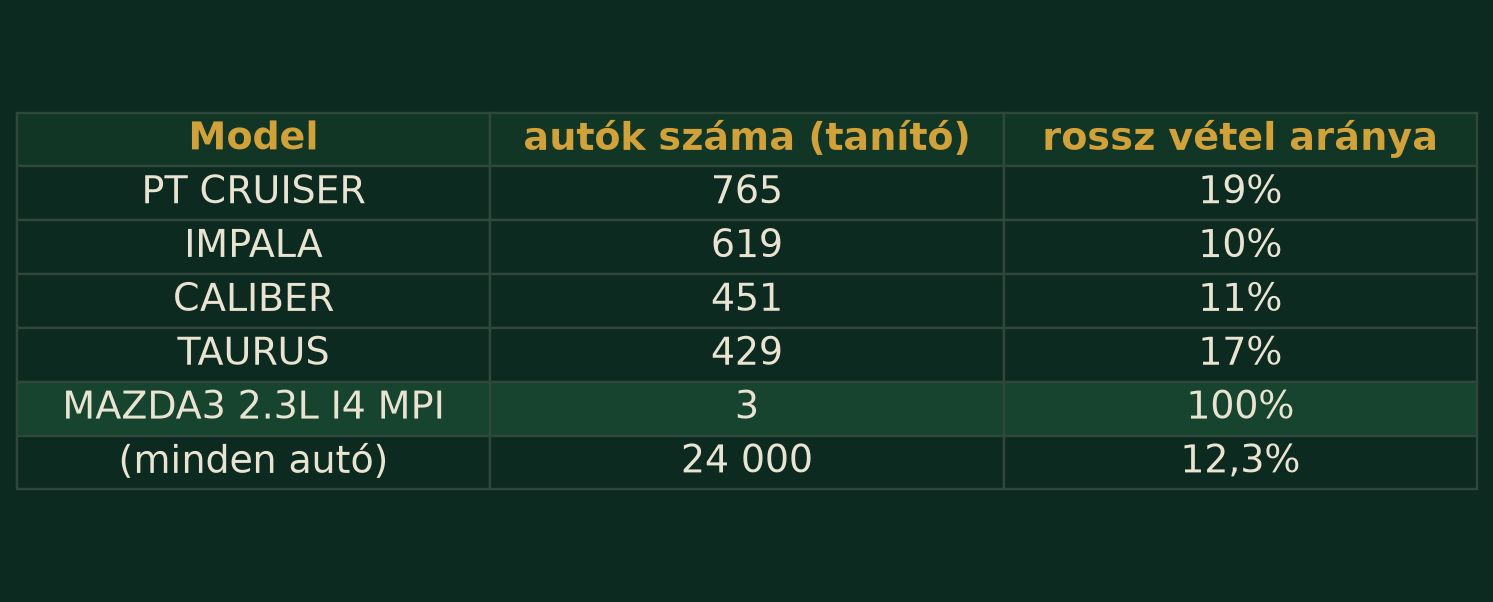
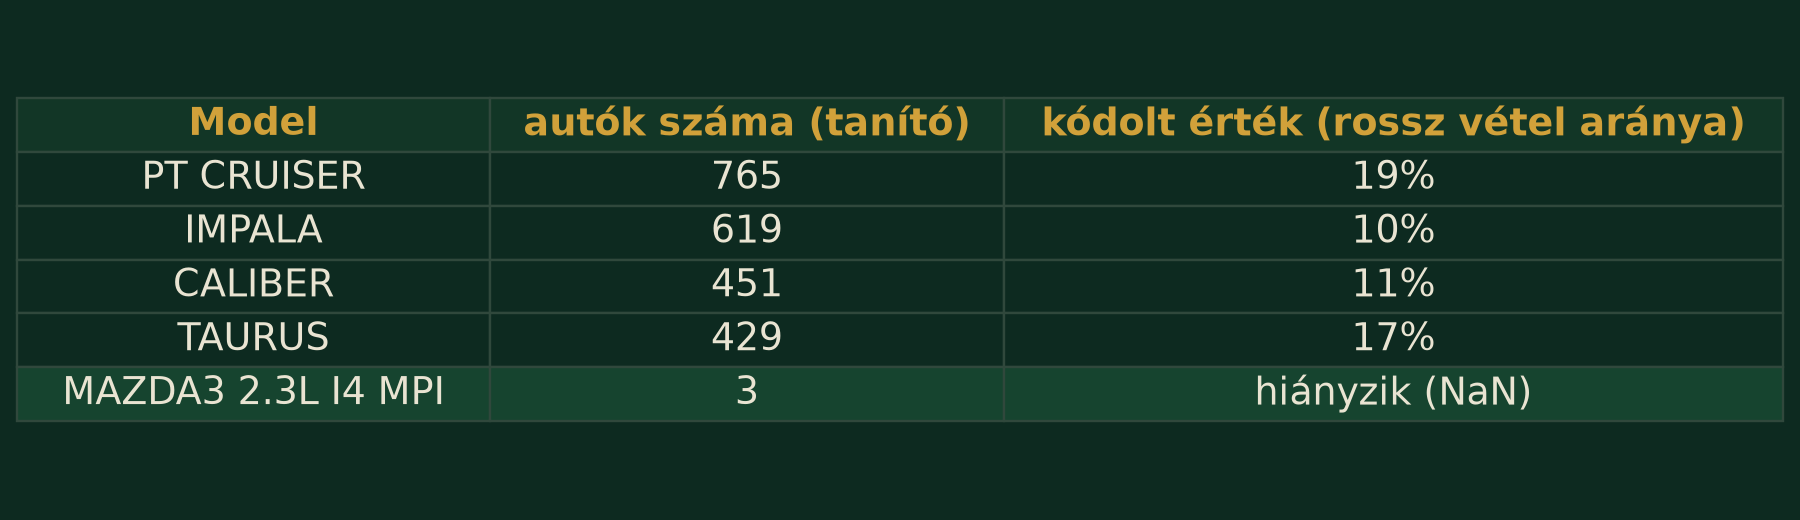
Lesson 4 slides: review fixes (52 slides)
- Drop 'Mennyit tudunk valojaban?' (bootstrap) slide.
- Raw-rows table now shows both MANUAL and Manual and zero prices in both price columns.
- Target-mean encoding: values with < 30 cars (and unseen values) are simply missing, no smoothing.
- WheelType and WheelTypeID are the same information (1:1 code); said so on the cleaning and importance slides.
- 'vasarlaskori' price estimate is the used-market value at purchase, not the new-car price (median falls from
  8 176 USD at age 1 to 2 629 USD at age 9; inferred, the dataset does not define it).
- Threshold slide reframed as a business decision; no 'useful threshold' wording.

Checks: slide_check 0 issues, no image/text overlap, 6 questions. Notebook not re-run.

diff --git a/lessons/04-klasszifikacio/slides-data.js b/lessons/04-klasszifikacio/slides-data.js
@@ -50,7 +50,8 @@ window.SLIDES = [
   S({ eyebrow: "Az adat", title: "Kaggle: Don't Get Kicked!",
       blocks: [LIST("<strong>72 983</strong> vásárlás, <strong>33</strong> oszlop (Kaggle, Carvana; OpenML 41162, CC0). Az órán egy <strong>30 000 soros, réteges mintát</strong> használunk: 24 000 tanító + 6 000 teszt sor",
                     "<strong>12,3%</strong> rossz vétel: a „minden vétel jó” modell pontossága 87,7%",
-                    "Oszlopok: az autó adatai (márka, modell, kor, km), a vételár, aukció, és <strong>piaci árbecslések</strong>: aukciós vagy kiskereskedelmi ár, átlagos vagy „tiszta” állapotú autóra, <strong>kétszer</strong>: a vásárláskor és ma")] }),
+                    "Oszlopok: az autó adatai (márka, modell, kor, km), a vételár, aukció, és <strong>piaci árbecslések</strong> (aukciós/kiskereskedelmi, átlagos/„tiszta” állapotú autóra) <strong>kétszer</strong>: a vásárláskor és ma",
+                    "A becslés <strong>nem az új autó ára</strong>: a vásárláskori medián becslés 1 éves autóra 8 176, 9 évesre 2 629 USD (teljes adat; az adatsor nem definiálja, az értékekből következtetünk)")] }),
   S({ eyebrow: "EDA", title: "Kor szerint", img: "eda_kor.png", caption: "a 30 000 soros mintán; szaggatott vonal: átlag (12,3%)",
       blocks: ["Az autó korával nő a rossz vétel aránya: 1 évesnél <strong>3,8%</strong>, 9 évesnél <strong>29%</strong>."] }),
   S({ eyebrow: "EDA", title: "Vételár szerint", img: "eda_ar.png", caption: "fent: hány autó van a sávban; lent: közülük hány rossz vétel (100-nál kevesebb autós sávban nem rajzoltunk arányt)",
@@ -63,18 +64,18 @@ window.SLIDES = [
                "Ezt a vásárláskori adatrögzítés ismeretében kell eldönteni. A demóban jellemzőként használjuk."] }),
 
   // ---------------- Tisztítás ----------------
-  S({ eyebrow: "Tisztítás", title: "Ilyen a nyers adat", img: "tbl_raw.png", caption: "négy valódi sor a mintából, a problémás cellák kiemelve",
-      blocks: ["Unix-idő a dátum helyén, <strong>0 dollár</strong> ár, üres keréktípus, „Manual” és „MANUAL”, számnak látszó irányítószám."] }),
+  S({ eyebrow: "Tisztítás", title: "Ilyen a nyers adat", img: "tbl_raw.png", caption: "hat valódi sor a mintából, a problémás cellák kiemelve",
+      blocks: ["Unix-idő a dátum helyén, <strong>0 dollár</strong> becslés (vásárláskor és ma is), „MANUAL” és „Manual”, üres keréktípus, számnak látszó irányítószám."] }),
   S({ eyebrow: "Tisztítás", title: "Mit csinálunk velük?",
-      blocks: [LIST("<strong>0 dollár ár</strong> → hiányzó érték (NaN): a mintában 348 vételkori és 209 mai árnál", "<strong>PurchDate</strong> (unix-idő) → hónap és a hét napja", "<strong>VNZIP1, BYRNO, WheelTypeID</strong>: számnak látszó kódok → kategória (nincs értelme átlagolni)", "<strong>Transmission</strong>: „Manual” → „MANUAL”", "<strong>Hiányzó értékek:</strong> lineáris modellnek medián + „hiányzott” jelző oszlop; fának a NaN marad. A hiányzást nem tüntetjük el nyomtalanul")] }),
+      blocks: [LIST("<strong>0 dollár ár</strong> → hiányzó érték (NaN): a mintában 348 vásárláskori és 209 mai becslésnél", "<strong>PurchDate</strong> (unix-idő) → hónap és a hét napja", "<strong>VNZIP1, BYRNO, WheelTypeID</strong>: számnak látszó kódok → kategória (nincs értelme átlagolni). A <code>WheelTypeID</code> a <code>WheelType</code> kódja, vagyis <strong>ugyanaz az információ</strong>", "<strong>Transmission</strong>: „Manual” → „MANUAL”", "<strong>Hiányzó értékek:</strong> lineáris modellnek medián + „hiányzott” jelző oszlop; fának a NaN marad. A hiányzást nem tüntetjük el nyomtalanul")] }),
   S({ eyebrow: "Kódolás", title: "One-hot kódolás", img: "tbl_onehot.png", caption: "valódi sorok a tanító halmazból; a hiányzó érték is kap egy oszlopot",
       blocks: ["One-hot: minden értékhez külön 0/1 oszlop; a „hiányzik” is kap egyet. Kevés érték esetén használjuk."] }),
-  S({ eyebrow: "Kódolás", title: "Sok érték: célérték-átlag", img: "tbl_celatlag.png", caption: "csak a 24 000 tanító sorból számolva",
-      blocks: ["A <code>Model</code>nek 876 értéke van a tanítóban: one-hot-tal 876 oszlop. Helyette: minden értékhez a <strong>csoport rossz-vétel-aránya</strong>."] }),
+  S({ eyebrow: "Kódolás", title: "Sok érték: célérték-átlag", img: "tbl_celatlag.png", caption: "csak a 24 000 tanító sorból számolva; 30-nál kevesebb autós érték: hiányzik",
+      blocks: ["A <code>Model</code>nek 876 értéke van: one-hot-tal 876 oszlop. Helyette minden értékhez a <strong>csoport rossz-vétel-aránya</strong>."] }),
   S({ eyebrow: "Kódolás", title: "A célérték-átlag szabályai",
       blocks: [LIST("<strong>Csak a tanító adatból számoljuk</strong>: a teszt (és a validációs rész) célértékéből számolva szivárgás lenne, hiszen a jellemzőt a megoldásból állítanánk elő. Keresztvalidációnál minden foldon a tanító résznek megfelelően",
-                    "<strong>Ritka értékeknél simítunk:</strong> a 3 autós modell 100%-a megbízhatatlan, ezért a csoport átlagát a globális átlag (12,3%) felé húzzuk, annál erősebben, minél kevesebb az autó",
-                    "Új, a tanítóban nem látott értékre: a globális átlag")] }),
+                    "<strong>Egyszerűen:</strong> a 30-nál kevesebb autós érték (és a tanítóban nem látott új érték) <strong>hiányzónak</strong> számít, nincs simítás. A 3 autós modell 100%-a úgysem megbízható. A 876 értékből 704 ilyen, de a tanító autók csak 17%-át fedik",
+                    "A hiányzót a modell kezeli: a fa NaN-ként, a lineáris modell mediánnal és „hiányzott” jelzővel")] }),
   S({ eyebrow: "A split", title: "Előbb szétválasztunk",
       blocks: [LIST("<strong>24 000</strong> tanító és <strong>6 000</strong> teszt sor, rétegzetten (mindkettőben 12,3% rossz vétel)", "Ami az adatból <strong>tanul</strong> (imputer, scaler, encoder, célérték-átlag), azt egy <strong>pipeline</strong>-ba tesszük, és csak a tanító részen illesztjük, különben a teszt információja beszivárog (<strong>szivárgás</strong>)", "A teszthalmaz <strong>zárolva</strong> van a végéig: egyszer használjuk, hogy becsüljük a modell teljesítményét új autókon")] }),
 
@@ -122,8 +123,8 @@ window.SLIDES = [
   S({ eyebrow: "Modell-létra", title: "Mit olvasunk ki?",
       blocks: [LIST("A <strong>korlát nélküli fa</strong> memorizál: PR-AUC 0,19, alig jobb a véletlennél (0,12)", "A <strong>logisztikus regresszió</strong> erős alap (0,45); a Random Forest 0,46, az XGBoost 0,48: <strong>mérsékelt</strong> nyertes", "A lineáris modell one-hot bemenetet kap (643 oszlop), a fák kevesebbet (33 oszlop)"),
                T("Tanulság", "Nem egy nagyobb modell a következő lépés, hanem a hibák megértése.")] }),
-  S({ eyebrow: "Modell-létra", title: "Mire figyel az XGBoost?", img: "xgb_fontossag.png", caption: "a tíz legfontosabb oszlop (gain alapú fontosság)",
-      blocks: ["A <code>WheelType</code> és <code>WheelTypeID</code> (ugyanott hiányzik mindkettő), utána a kor és az aukció."] }),
+  S({ eyebrow: "Modell-létra", title: "Mire figyel az XGBoost?", img: "xgb_fontossag.png", caption: "a tíz legfontosabb oszlop (gain alapú fontosság). A demóban a WheelType és a WheelTypeID is benne maradt; élesben az egyiket eldobnánk",
+      blocks: ["A <code>WheelType</code> (név) és a <code>WheelTypeID</code> (kód) <strong>ugyanaz az információ</strong>, ezért megoszlik a fontosságuk; utána a kor és az aukció."] }),
 
   // ---------------- Visszacsatolási kör ----------------
   S({ eyebrow: "Visszacsatolás", title: "Hibák → hipotézis → újramérés",
@@ -134,7 +135,7 @@ window.SLIDES = [
       blocks: ["Recall <strong>25%</strong> (749 / 2 952), precision <strong>83%</strong>: négy rossz vételből egyet talál meg."] }),
   S({ eyebrow: "Visszacsatolás", title: "Nézzünk tévedéseket", img: "tbl_tevedesek.png", caption: "felül: a legbiztosabban kihagyott rossz vételek; alul: a legbiztosabb álriasztások",
       blocks: ["A kihagyott rossz vételek friss, átlagos autók, 0–1% jósolt eséllyel: a nyers oszlopok nem árulják el, miért rosszak."] }),
-  S({ eyebrow: "Visszacsatolás", title: "Hipotézis: az értékvesztés", img: "loop_arvaltozas.png", caption: "a mai és a vételkori aukciós átlagár hányadosa szerint tíz sávra bontva; a sávok létszáma nem egyenlő, mert sok autónál pontosan 1,00 a hányados",
+  S({ eyebrow: "Visszacsatolás", title: "Hipotézis: az értékvesztés", img: "loop_arvaltozas.png", caption: "a mai és a vásárláskori becsült aukciós átlagár hányadosa szerint tíz sávra bontva (az ábrán „vételkori”: ugyanaz); a sávok létszáma nem egyenlő, mert sok autónál pontosan 1,00 a hányados",
       blocks: ["Egy rossz vétel értékvesztés. Ahol az ár nem mozdult (≈ 1,00), a modell <strong>alulbecsül</strong>: 0,17 a valódi 0,19 helyett."] }),
   S({ eyebrow: "Visszacsatolás", title: "Fordított U alak",
       blocks: ["A rossz vétel aránya az árváltozás szerint <strong>fordított U</strong>: ~20% ott, ahol az ár alig mozdult (1,00 körül), és ~10% mindkét szélen. Egy egyenes csak lejtő lehet, ezt nem követi.",
@@ -142,15 +143,15 @@ window.SLIDES = [
                T("Őszintén", "Azt, <strong>miért</strong> magas a kockázat ott, ahol az ár nem mozdult, nem tudjuk (lehet, hogy az árbecslés nem frissült). A mintázat attól még használható.")] }),
   S({ eyebrow: "Feature engineering", title: "Amit a fa nem számol ki",
       blocks: ["A fa egy oszlopra tesz fel kérdést: két oszlop <strong>hányadosát vagy különbségét</strong> nekünk kell kiszámolni. Ez a <strong>feature engineering</strong>.",
-               LIST("<strong>árarány</strong>: mai ár / vételkori ár, négy féle árra (aukciós/kiskereskedelmi, átlagos/tiszta)", "<strong>árkülönbség</strong>: mai − vételkori aukciós átlagár", "fizetett ár / mai ár; kiskereskedelmi / aukciós ár; tiszta / átlagos ár")] }),
+               LIST("<strong>árarány</strong>: mai becsült ár / vásárláskori becsült ár, négy féle árra (aukciós/kiskereskedelmi, átlagos/tiszta)", "<strong>árkülönbség</strong>: mai − vásárláskori aukciós átlagbecslés", "fizetett ár / mai ár; kiskereskedelmi / aukciós ár; tiszta / átlagos ár")] }),
   qa({ eyebrow: "Feature engineering", title: "Javít az új jellemző?", img: "tbl_jellemzok.png", caption: "3-fold × 2 ismételt CV; a különbség páros: ugyanazok a foldok",
       ask: "Javítják az új jellemzők az XGBoostot és a logisztikus regressziót is?",
       answer: ["Csak az XGBoostot: <strong>+0,018 ± 0,006</strong> (páros); a logisztikus regresszió +0,001, azaz semmi."] }),
   S({ eyebrow: "Feature engineering", title: "Miért csak a fának segít?",
       blocks: ["A hatás fordított U alakú, nem monoton: az egyenes csak lejtő lehet. A fa <strong>hajlik</strong>, ha megkapja a jelet.",
                T("Tanulság", "A feature engineering a modell és az adat <strong>párosításáról</strong> szól: a fának az arányt kell kiszámolnunk, a lineáris modellnek a kanyart (pl. sávokat).")] }),
-  S({ eyebrow: "Visszacsatolás", title: "A küszöb választása", img: "loop_kuszob_gorbek.png", caption: "XGBoost, out-of-fold, tanító halmaz",
-      blocks: ["A pontosság 0,56-nál a legjobb, a <strong>hasznos</strong> küszöb 0,12: ott a pontosság esik (0,90 → 0,75), a recall nő (0,25 → 0,62)."] }),
+  S({ eyebrow: "Visszacsatolás", title: "A küszöb üzleti döntés", img: "loop_kuszob_gorbek.png", caption: "XGBoost, out-of-fold, tanító halmaz",
+      blocks: ["0,56-nál a pontosság a legjobb (recall 0,25); 0,12-nél a recall 0,62, de a pontosság 0,75. A választás <strong>üzleti döntés</strong>."] }),
   S({ eyebrow: "Visszacsatolás", title: "A javítás együtt", img: "tbl_javitas.png", caption: "XGBoost, out-of-fold, tanító halmaz",
       blocks: ["Az új jellemzők és a 0,12-es küszöb együtt: recall <strong>0,62</strong>, kiegyensúlyozott pontosság <strong>0,70</strong> (a pontosság 0,75)."] }),
   S({ eyebrow: "Visszacsatolás", title: "Mit tanultunk a körből?",
@@ -169,7 +170,7 @@ window.SLIDES = [
 
   // ---------------- Záró teszt ----------------
   S({ eyebrow: "Záró teszt", title: "Előre rögzített szabály",
-      blocks: [LIST("Jelöltek: logisztikus regresszió (CV: 0,450), XGBoost alap (0,499), XGBoost hangolt (0,493). Nyer a <strong>legjobb CV PR-AUC</strong>: az alap XGBoost", "Küszöb: a végső modell out-of-fold jóslataiból, kiegyensúlyozott pontosságra → <strong>0,12</strong>", "Illesztés az egész tanító halmazon, aztán a teszthalmaz <strong>egyszer</strong>")] }),
+      blocks: [LIST("Jelöltek: logisztikus regresszió (CV: 0,450), XGBoost alap (0,499), XGBoost hangolt (0,493). Nyer a <strong>legjobb CV PR-AUC</strong>: az alap XGBoost", "Küszöb: üzleti költség híján a demóban a kiegyensúlyozott pontosságot maximalizáló érték a végső modell out-of-fold jóslataiból → <strong>0,12</strong>", "Illesztés az egész tanító halmazon, aztán a teszthalmaz <strong>egyszer</strong>")] }),
   S({ eyebrow: "Záró teszt", title: "A teszthalmazon", img: "tbl_vegso.png", caption: "6 000 autó, ebből 738 rossz vétel",
       blocks: ["Küszöb 0,5 → 0,12: recall 0,22 → <strong>0,62</strong>, kiegyens. pontosság 0,61 → <strong>0,69</strong>, de precision 0,87 → 0,27."] }),
   S({ eyebrow: "Záró teszt", title: "A teszt mátrixa", img: "cm_vegso.png", caption: "alap XGBoost, küszöb 0,12, a teszthalmazon",
@@ -177,12 +178,8 @@ window.SLIDES = [
   S({ eyebrow: "Záró teszt", title: "Megéri?",
       blocks: ["1 212 fölösleges riasztás egy 454 megfogott rossz vételért: attól függ, <strong>mennyibe kerül egy plusz ellenőrzés</strong>, és mennyit ér egy elkerült kick. Ezt az üzlet tudja, nem a modell.",
                "A modell dolga a választási lehetőségeket adni (a PR-görbe pontjait); a küszöböt az üzleti költség dönti el."] }),
-  S({ eyebrow: "Záró teszt", title: "Mennyit tudunk valójában?",
-      blocks: ["<strong>Bootstrap konfidencia-intervallum:</strong> a 6 000 tesztsort 1 000-szer újrahúzzuk visszatevéssel, és mindegyiken kiszámoljuk a PR-AUC-t; a középső 95% az intervallum. Az XGBoost PR-AUC-ja a teszten <strong>0,472</strong> [0,439; 0,506], a logisztikus regresszióé 0,406.",
-               "<strong>Páros bootstrap:</strong> a különbség <strong>+0,065</strong> [+0,046; +0,085], nem tartalmazza a nullát: valószínűleg jobb. A CV-ben a különbség +0,05 körüli volt: az irány egyezik, a pontos mérték egy mintán nem ismert.",
-               T("Hogyan ellenőriznéd?", "A teljes split–hangolás–kiértékelés ismétlésével több seeddel és a teljes adattal. Ezt nem futtattuk le.")] }),
   S({ eyebrow: "Összefoglaló", title: "Ellenőrzőlista",
-      blocks: [LIST("Először szétválasztunk; ami tanul, az pipeline-ban él (a célérték-átlag is)", "Időbeli adatnál a múltból jósolunk a jövőre", "Alapmodell és dummy mindig; ugyanazok a foldok minden modellnek", "Mutatók előre: kiegyensúlyozott pontosság, PR-AUC, konfúziós mátrix, a legkockázatosabb X%", "A hiányzás lehet jel, de lehet szivárgás is", "Feature engineering: a modellnek azt számoljuk ki, amit magától nem tud", "Ha a hangolt modell nem jobb, az egyszerűbbet tartjuk meg; a teszthalmaz egyszer, konfidencia-intervallummal")] }),
+      blocks: [LIST("Először szétválasztunk; ami tanul, az pipeline-ban él (a célérték-átlag is)", "Időbeli adatnál a múltból jósolunk a jövőre", "Alapmodell és dummy mindig; ugyanazok a foldok minden modellnek", "Mutatók előre: kiegyensúlyozott pontosság, PR-AUC, konfúziós mátrix, a legkockázatosabb X%", "A hiányzás lehet jel, de lehet szivárgás is", "Feature engineering: a modellnek azt számoljuk ki, amit magától nem tud", "Ha a hangolt modell nem jobb, az egyszerűbbet tartjuk meg; a teszthalmaz egyszer")] }),
   S({ eyebrow: "Házi", title: "Építs saját klasszifikátort",
       blocks: ["Válassz <strong>egy</strong> adatsort (lehetőleg mindenki mást), és építs rá bináris klasszifikátort egyetlen notebookban: split előbb, dummy és alapmodell, legalább három modell, a mai mutatók, <strong>egy dokumentált visszacsatolási kör új jellemzővel</strong>, a teszthalmaz egyszer.",
                "Pontozás: az <strong>indoklás</strong> számít, nem a pontszám; a sikertelen próbálkozás is érték, ha őszintén leírod. Részletek, adatsorok: <code>homework.md</code>."] }),

diff --git a/lessons/04-klasszifikacio/build_assets.py b/lessons/04-klasszifikacio/build_assets.py
@@ -88,17 +88,20 @@ print("ár-sávok (ezer USD): autók száma és rossz vétel aránya")
 print(g.assign(mean=lambda d: d["mean"].round(3)).T.to_string())
 
 # ---------------------------------------------------------------- 2. nyers sorok: a problémás értékekkel
-cols = ["PurchDate", "VehicleAge", "Make", "Transmission", "WheelType", "VNZIP1", "MMRAcquisitionAuctionAveragePrice", "VehBCost"]
-r_ok = raw[(raw.WheelType.notna()) & (raw.MMRAcquisitionAuctionAveragePrice > 0) & (raw.Transmission == "AUTO")].iloc[0]
-r_zero = raw[raw.MMRAcquisitionAuctionAveragePrice == 0].iloc[0]
-r_wheel = raw[raw.WheelType.isna() & (raw.MMRAcquisitionAuctionAveragePrice > 0)].iloc[0]
-r_man = raw[raw.Transmission == "Manual"].iloc[0]
-rows = pd.DataFrame([r_ok, r_zero, r_wheel, r_man])[cols]
+cols = ["PurchDate", "Make", "Transmission", "WheelType", "VNZIP1", "MMRAcquisitionAuctionAveragePrice", "MMRCurrentAuctionAveragePrice"]
+ok = (raw.MMRAcquisitionAuctionAveragePrice > 0) & (raw.MMRCurrentAuctionAveragePrice > 0)
+r_ok = raw[ok & raw.WheelType.notna() & (raw.Transmission == "AUTO")].iloc[0]
+r_zero_acq = raw[raw.MMRAcquisitionAuctionAveragePrice == 0].iloc[0]                                   # 0 dollár a vásárláskori becslés
+r_zero_cur = raw[(raw.MMRCurrentAuctionAveragePrice == 0) & (raw.MMRAcquisitionAuctionAveragePrice > 0)].iloc[0]   # 0 dollár a mai becslés
+r_manual_up = raw[raw.Transmission == "MANUAL"].iloc[0]                                                # a helyes írásmód
+r_manual_bad = raw[raw.Transmission == "Manual"].iloc[0]                                               # a másik írásmód
+r_wheel = raw[raw.WheelType.isna() & ok].iloc[0]
+rows = pd.DataFrame([r_ok, r_zero_acq, r_zero_cur, r_manual_up, r_manual_bad, r_wheel])[cols]
 show = rows.copy()
-show.columns = ["PurchDate", "kor", "Make", "Transmission", "WheelType", "VNZIP1", "MMR vételkori átlagár", "VehBCost"]
+show.columns = ["PurchDate", "Make", "Transmission", "WheelType", "VNZIP1", "piaci becslés vásárláskor", "piaci becslés ma"]
 for c in show.columns:
     show[c] = show[c].map(lambda v: "NaN" if pd.isna(v) else (f"{v:.0f}" if isinstance(v, (int, float, np.integer, np.floating)) else str(v)))
-hl = {(1, 6), (0, 0), (2, 4), (3, 3), (0, 5)}               # 0 dollár, unix-idő, hiányzó keréktípus, „Manual”, irányítószám
+hl = {(0, 0), (0, 4), (1, 5), (2, 6), (3, 2), (4, 2), (5, 3)}   # unix-idő, irányítószám, 0 dollár (kétszer), MANUAL/Manual, hiányzó keréktípus
 table_png(show, "tbl_raw", hl_cells=hl, fs=15)
 print("nyers sorok:\n", show.to_string())
 
@@ -107,14 +110,16 @@ X, y = raw.drop(columns="IsBadBuy"), raw.IsBadBuy.astype(int)
 X_train, X_test, y_train, y_test = train_test_split(X, y, test_size=.2, stratify=y, random_state=42)
 gm = float(y_train.mean())
 stat = pd.DataFrame({"y": y_train.values, "m": X_train.Model.values}).groupby("m").y.agg(["size", "mean"])
+MIN_N = 30                                              # KISS: a 30-nál ritkább érték hiányzónak számít (nincs simítás)
 top = stat.sort_values("size", ascending=False).head(4)
 rare = stat[(stat["size"].between(3, 5))].sort_values("mean", ascending=False).head(1)
 ex = pd.concat([top, rare])
-tab = pd.DataFrame({"Model": [str(i)[:26] for i in ex.index], "autók száma (tanító)": [thou(v) for v in ex["size"]],
-                    "rossz vétel aránya": [f"{v:.0%}".replace(".", ",") for v in ex["mean"]]})
-tab = pd.concat([tab, pd.DataFrame({"Model": ["(minden autó)"], "autók száma (tanító)": [thou(len(y_train))], "rossz vétel aránya": [f"{gm:.1%}".replace(".", ",")]})])
+enc = ["hiányzik (NaN)" if n < MIN_N else f"{m:.0%}".replace(".", ",") for n, m in zip(ex["size"], ex["mean"])]
+tab = pd.DataFrame({"Model": [str(i)[:26] for i in ex.index], "autók száma (tanító)": [thou(v) for v in ex["size"]], "kódolt érték (rossz vétel aránya)": enc})
 table_png(tab.reset_index(drop=True), "tbl_celatlag", hl_rows=[4], fs=16)
-print("célérték-átlag példa:\n", tab.to_string(), "\nkülönböző Model a tanítóban:", int(stat.shape[0]))
+n_rare = int((stat["size"] < MIN_N).sum())
+print("célérték-átlag példa:\n", tab.to_string(), "\nkülönböző Model a tanítóban:", int(stat.shape[0]),
+      f"| ebből {n_rare} értéknél van {MIN_N}-nál kevesebb autó (a tanító autók {stat.loc[stat['size'] < MIN_N, 'size'].sum() / len(y_train):.1%}-a)")
 
 # ---------------------------------------------------------------- 4. időbeli adat: kiterjedő ablak (múltból a jövőbe)
 fig, ax = plt.subplots(figsize=(11, 4.2))
